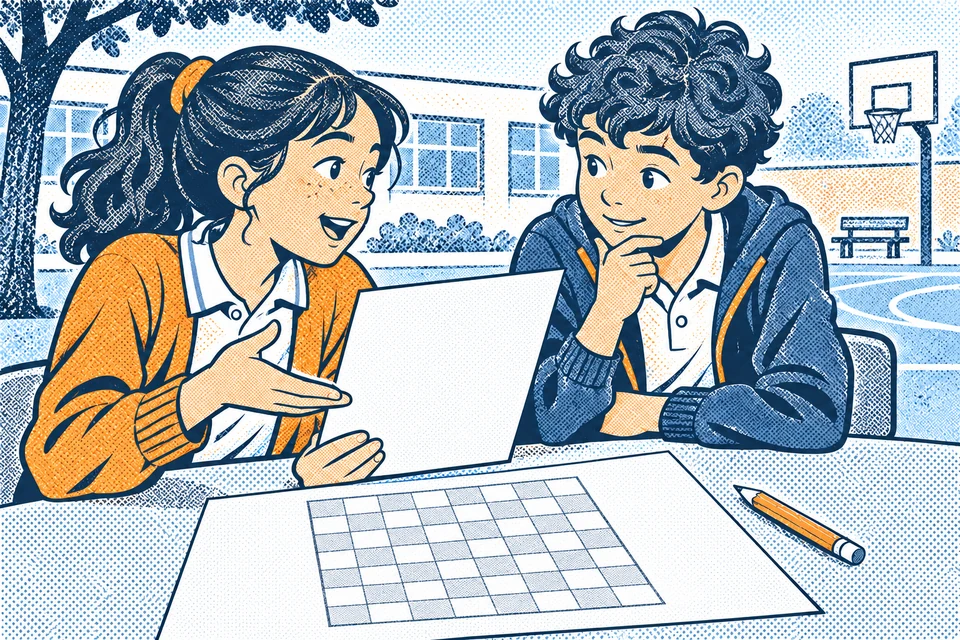
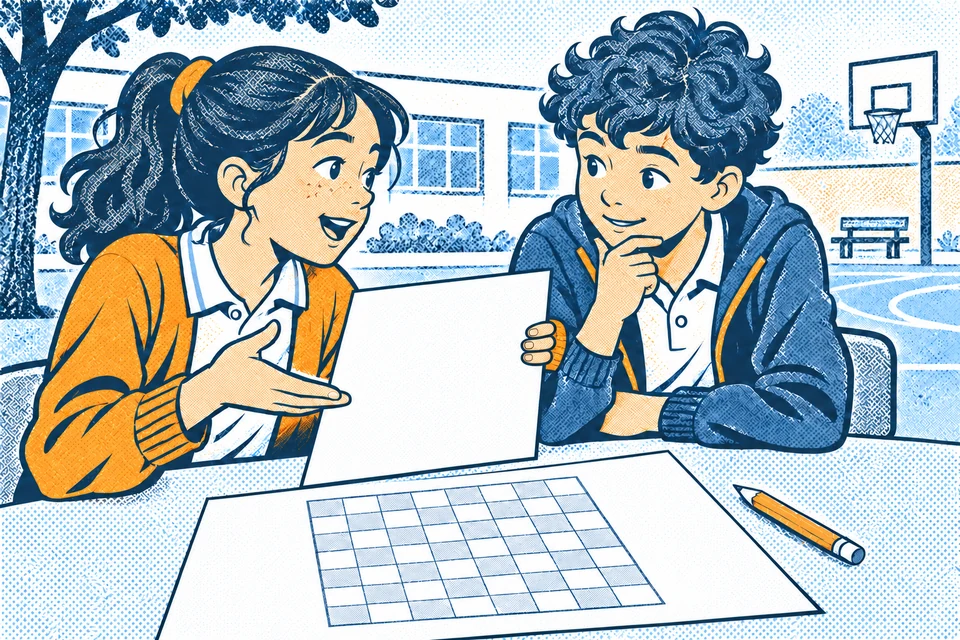
Correct how Clara holds the sheet in L070

Changed region(s): [[0.0, 0.0, 1.0, 1.0]]

diff --git a/assets/readings/L070-illustracio.md b/assets/readings/L070-illustracio.md
@@ -2,6 +2,8 @@
 
 Imatge `l070-la-noticia-que-cambio-de-titulo.webp`, generada amb el generador integrat i optimitzada per al catàleg.
 
+A la revisió, la Clara agafa el full amb la mà esquerra per darrere. Se’n veuen tres dits que envolten la vora dreta.
+
 ```text
 Original wide 3:2 editorial illustration for a Spanish primary-school reading worksheet. Two pupils discuss a sheet of tally notes at the school newspaper table, with an abstract playground board-game sketch and a pencil. View hands and faces naturally, do not make any marks countable, no headline. Graphic editorial halftone with pale blue, orange and navy. Clear grayscale reproduction on a school printer. No captions, readable text, logos, border, or collage layout. Revisió: Keep the colors, kids and halftone style but correct the two papers. Turn the held tally sheet around so the camera sees only its plain blank reverse; the kids can read it but pupils using the worksheet cannot see numbers or marks. Replace the foreground paper's winding slide/board path drawing with a subtle unlabeled pencil outline of a simple square checkered game board. No playground slide on paper. Retain schoolyard background.
 ```
